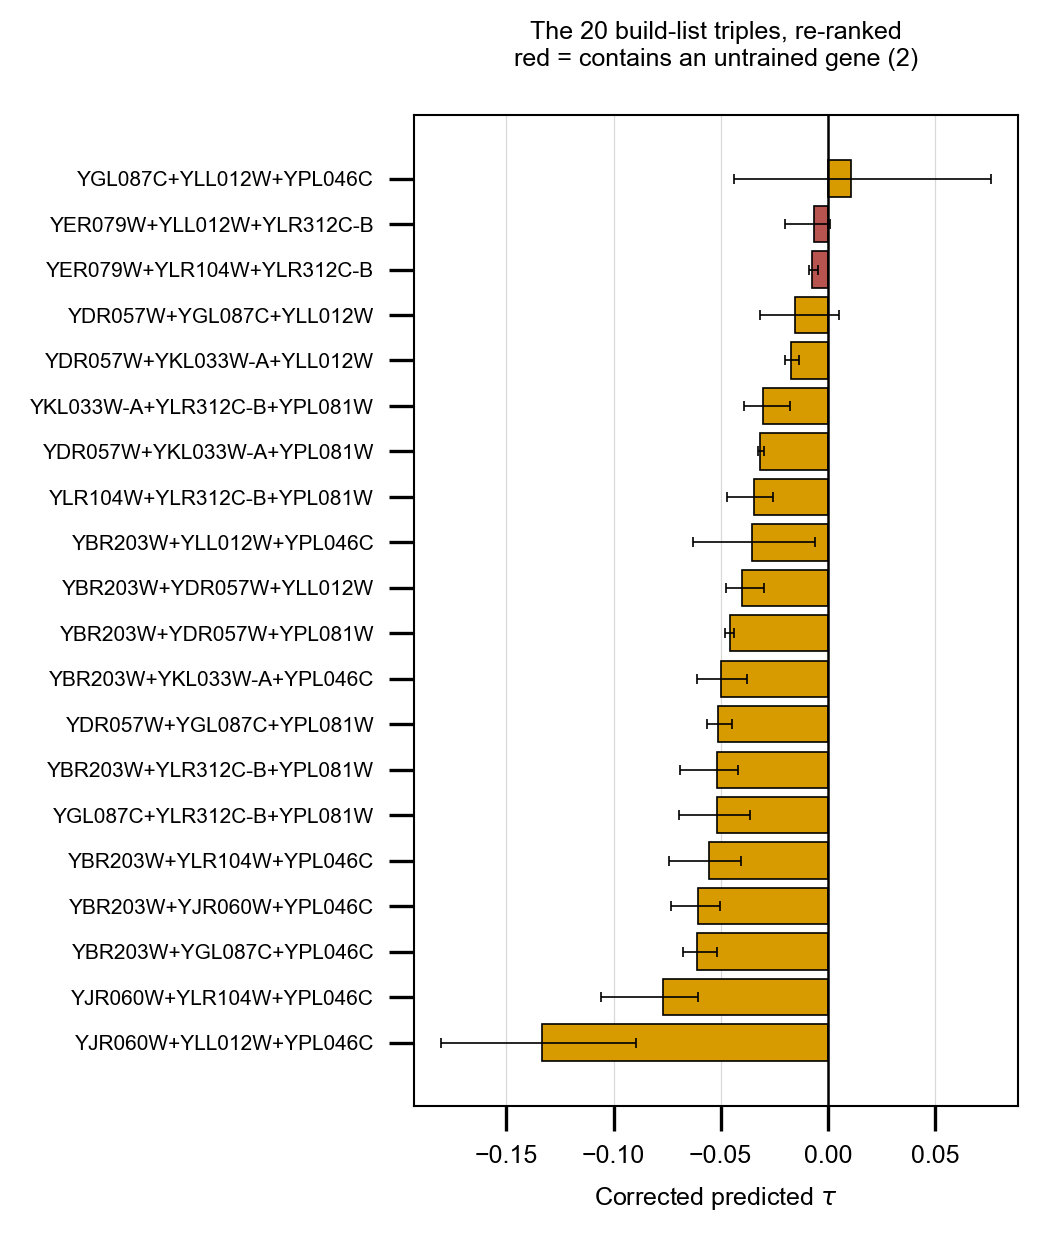
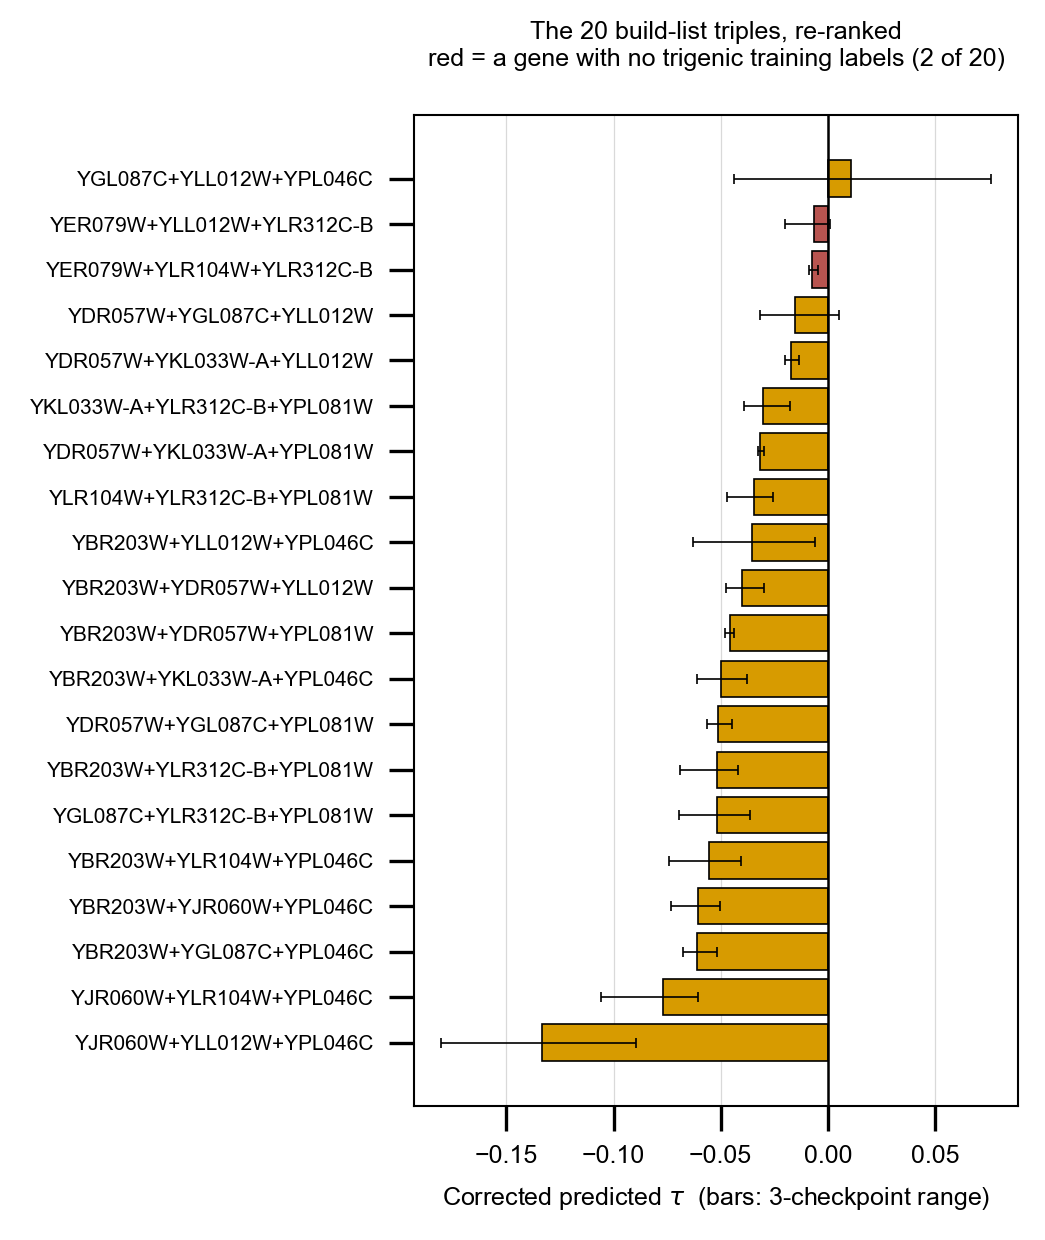
Relabel: "untrained gene" was wrong twice
The ranked build-list figure colored triples red for containing an "untrained
gene," which invites two wrong readings and is wrong on both.

It does not mean the gene is outside the gene set. YER079W is in the model's
6,607-gene set at embedding row 1811, and is in the build's own gene_set.json.

It does not mean the embedding row is untrained. The graph regularization penalty
acts on all 6,607 rows and carried 99.99 percent of the training loss, so every
row received substantial gradient.

What is actually zero is the number of trigenic LABELS that ever involved the
gene. Only 4,352 of the 6,607 genes appear in any training record, so 2,255 rows
are in that position. The figure now says "a gene with no trigenic training
labels."

Also states on the axis that the bars are a 3-checkpoint range. They are a
min-to-max over three runs, not a confidence interval, and the three are not seed
replicates: the training script hardcodes seed 42, M01 and M02 share config
cabbi_000 and differ only by run-to-run nondeterminism, and M03 uses cabbi_002
which differs only in the scheduler's first_cycle_steps, 40 against 30. The bars
exclude label noise and split variance entirely.

Changed region(s): [[0.3981, 0.0306, 0.9493, 0.0613], [0.4287, 0.95, 0.9493, 0.9806]]

diff --git a/experiments/010-kuzmin-tmi/scripts/build_list_20_triples_corrected.py b/experiments/010-kuzmin-tmi/scripts/build_list_20_triples_corrected.py
@@ -168,7 +168,13 @@ def main() -> None:
             f"  {g:12} -> {resolved[g]:10} trigenic training records {support[g]:>5d}"
         )
     df["min_train_records"] = df["genes"].map(lambda gs: min(support[g] for g in gs))
-    df["has_untrained_gene"] = df["min_train_records"] == 0
+    # NOT "outside the gene set" and NOT "untrained". Every gene here has an
+    # embedding row, and that row did receive gradient, because the graph
+    # penalty acts on all 6,607 rows and carried 99.99 percent of the training
+    # loss. What is zero is the number of trigenic LABELS that ever involved the
+    # gene. 2,255 of the 6,607 rows are in that position, since only 4,352 genes
+    # appear in any training record.
+    df["no_trigenic_labels"] = df["min_train_records"] == 0
     df = df.rename(columns={"prediction": "as_listed"})
 
     sd = label_spread()
@@ -289,7 +295,7 @@ def plot_ranked(df: pd.DataFrame) -> None:
     )
     y = np.arange(len(d))[::-1]
     colors = [
-        PLOT_PALETTE[1] if flag else PLOT_PALETTE[0] for flag in d["has_untrained_gene"]
+        PLOT_PALETTE[1] if flag else PLOT_PALETTE[0] for flag in d["no_trigenic_labels"]
     ]
     ax.barh(
         y,
@@ -306,10 +312,13 @@ def plot_ranked(df: pd.DataFrame) -> None:
     ax.axvline(0.0, color="black", linewidth=0.6)
     ax.set_yticks(y)
     ax.set_yticklabels([t.replace(" + ", "+") for t in d["triple"]], fontsize=5)
-    ax.set_xlabel(r"Corrected predicted $\tau$")
+    # The bars are a range over three runs, not a confidence interval. Saying so
+    # in the caption rather than the axis keeps the label inside the panel.
+    ax.set_xlabel(r"Corrected predicted $\tau$  (bars: 3-checkpoint range)")
     ax.set_title(
         "The 20 build-list triples, re-ranked\n"
-        f"red = contains an untrained gene ({int(d['has_untrained_gene'].sum())})",
+        f"red = a gene with no trigenic training labels "
+        f"({int(d['no_trigenic_labels'].sum())} of {len(d)})",
         fontsize=6,
     )
     for spine in ax.spines.values():
